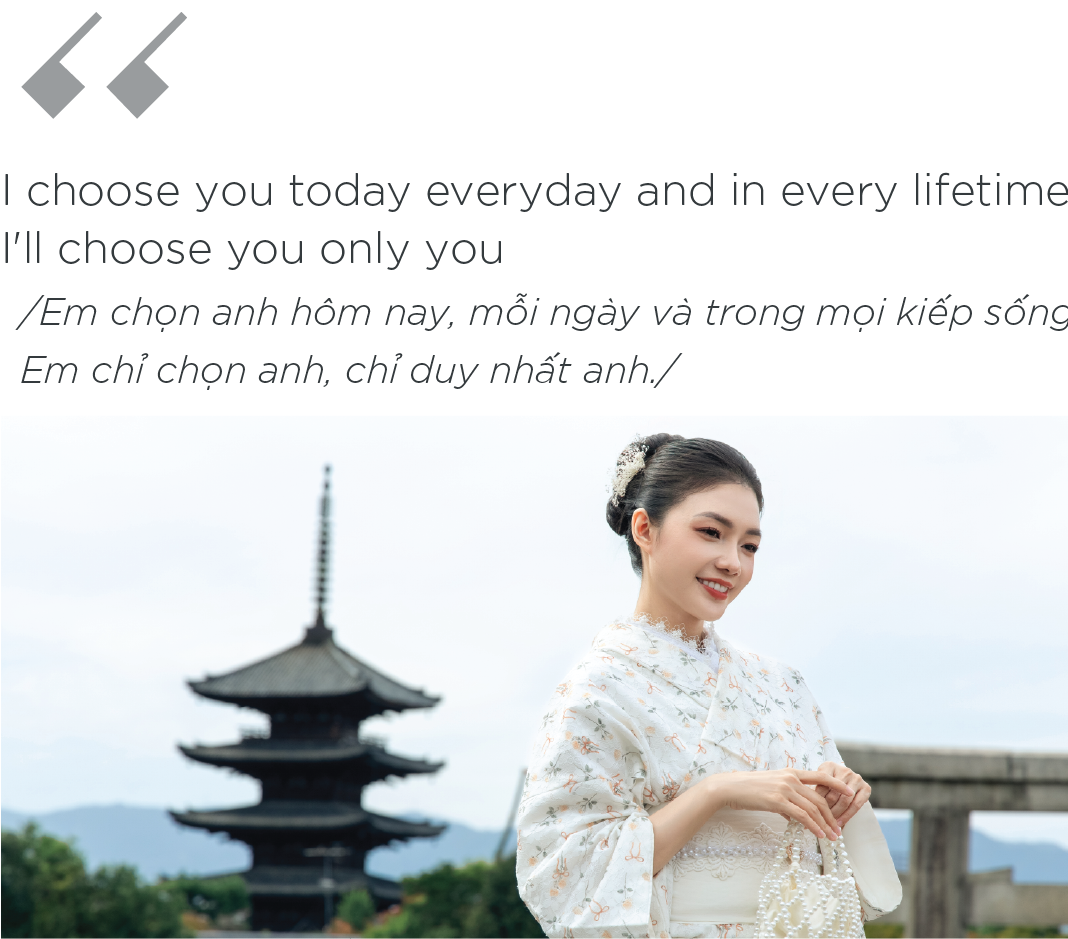
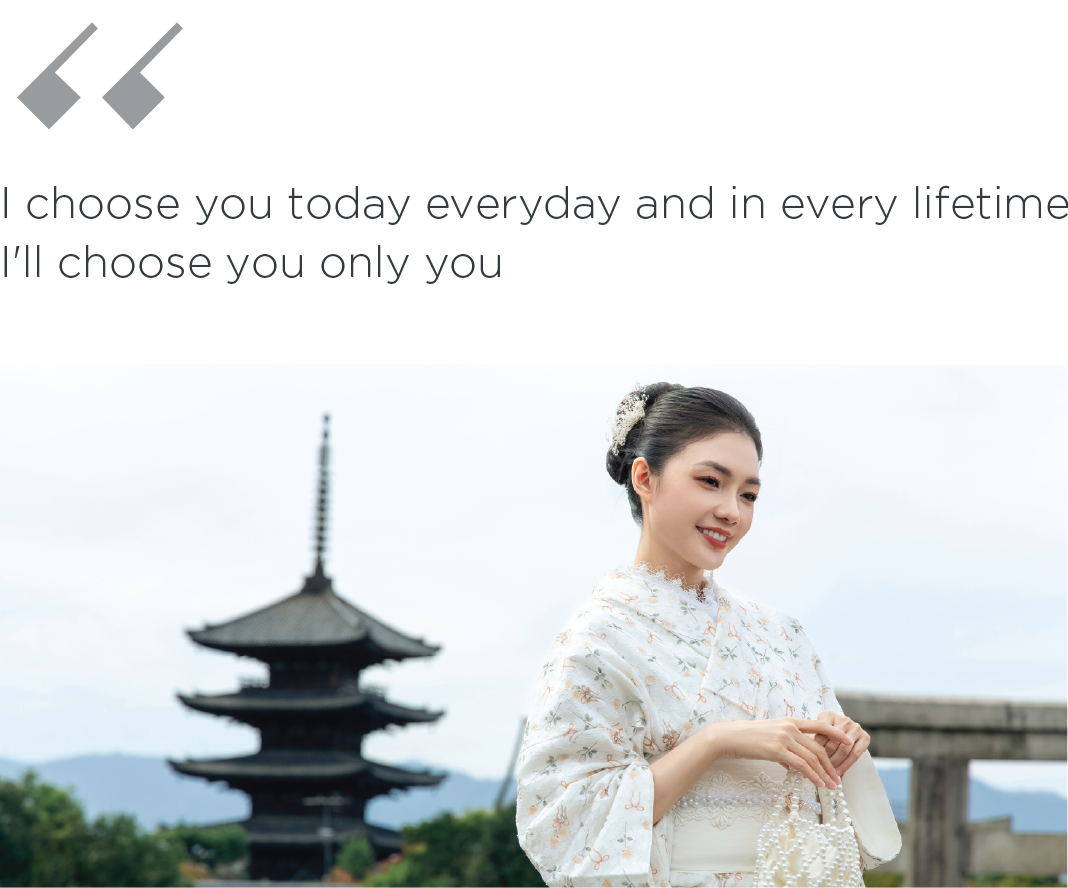
update

diff --git a/thiepmoi.html b/thiepmoi.html
@@ -77,9 +77,9 @@
                 <div class="slide">
                     <img src="./thiep/anh/3_4_11zon.webp" alt="" />
                 </div>
-                <div class="slide">
+                <!-- <div class="slide">
                 <img src="./thiep/anh/1_2_11zon.webp" alt="" />
-                </div>
+                </div> -->
                 <div class="slide">
                     <img src="./thiep/anh/2_3_11zon.webp" alt="" />
                 </div>
@@ -94,7 +94,7 @@
                 <div class="slide">
                     <img src="./thiep/anh/IMG_2793_1_11zon.webp" alt="" />
                 </div>
-                <div class="slide">
+                <!-- <div class="slide">
                     <img src="./thiep/anh/IMG_3075_2_11zon.webp" alt="" />
                 </div>
                 <div class="slide">
@@ -102,7 +102,7 @@
                 </div>
                 <div class="slide">
                     <img src="./thiep/anh/IMG_3223_4_11zon.webp" alt="" />
-                </div>
+                </div> -->
                 <div class="slide">
                     <img src="./thiep/anh/IMG_3245_5_11zon.webp" alt="" />
                 </div>
@@ -136,15 +136,25 @@
                     <img src="./thiep/anh/story2-02.png" alt="" class="img-story">
                 </div>
             </div>
+            <div class="album">
+                <a href="#" class="album-anh">ALBUM </a>
+            </div>
             <div class="box-title">
                     <p class="til1">WE SINCERELY HOPE TO HAVE YOU THERE ON THIS IMPORTANT DAY <br>
                                     TO WITNESS AND SHARE THIS HAPPINESS WITH US.</p>
-                                    <p class="til11"><i>/Chúng tôi chân thành mong đợi sự có mặt của bạn trong ngày quan trọng này <br>
-                                         để chứng kiến và chia sẻ niềm hạnh phúc cùng với chúng tôi. <br> Một lần nữa xin cảm ơn các bạn rất nhiều.❤/</i></p>
                     <lb class="til2">Thank you very much.</lb>
                     <lb class="dot2"><i class="fa-solid fa-diamond"></i></lb>
             </div>
-            
+            <div class="box-qr">
+                <button data-modal-target="modal2" class="btn-modal">MỪNG CƯỚI</button>
+                </div>
+                <div class="modal" id="modal2">
+                    <div class="modal-content">
+                      <span class="modal-close">&times;</span>
+                      <h1>QR MỪNG CƯỚI</h1>
+                     <img src="./thiep/anh/qr.png" alt="" class="img-modal">
+                    </div>
+                  </div>
             
              
             <div class="box-form" >

diff --git a/thiep/xacnhan.css b/thiep/xacnhan.css
@@ -413,6 +413,30 @@ hr{
   color: #fff;
 }
 
+.album{
+  width: 100%;
+  display: flex;
+  justify-content: center;
+  align-items: center;
+  margin: 30px 0 70px;
+}
+
+
+.album-anh{
+  font-family: var(--font-gotham);
+  width: 300px;
+  height: 30px;
+  background-color:#34393D;
+  display: flex;
+  justify-content: center;
+  align-items: center;
+  border-radius: 20px;
+  border: none;
+  padding: 20px;
+  text-decoration: none;
+  color: #fff;
+}
+
 
 .img-center{
   width: 100%;
@@ -561,6 +585,20 @@ hr{
   width: 60%;
 }
 
+.box-qr{
+  font-family: var(--font-gotham);
+  width: 200px;
+  height: 30px;
+  background-color: #34393D;
+  display: flex;
+  justify-content: center;
+  align-items: center;
+  border-radius: 20px;
+  border: none;
+  padding: 20px;
+  margin: 0 auto;
+}
+
 
 .box-title{
   display: flex;
@@ -578,13 +616,6 @@ hr{
 }
 
 .til1{
-  font-family: var(--font-gotham);
-  font-size: 10px;
-  font-weight: 300;
-  line-height: 20px;
-}
-
-.til11{
   font-family: var(--font-gotham);
   font-size: 10px;
   font-weight: 300;
@@ -880,7 +911,7 @@ textarea{
   border: none;
   font-family: var(--font-gotham);
   color: #fff;
-  font-size: 20px;
+  font-size: 17px;
 }
   /* Modal */
   .modal {
